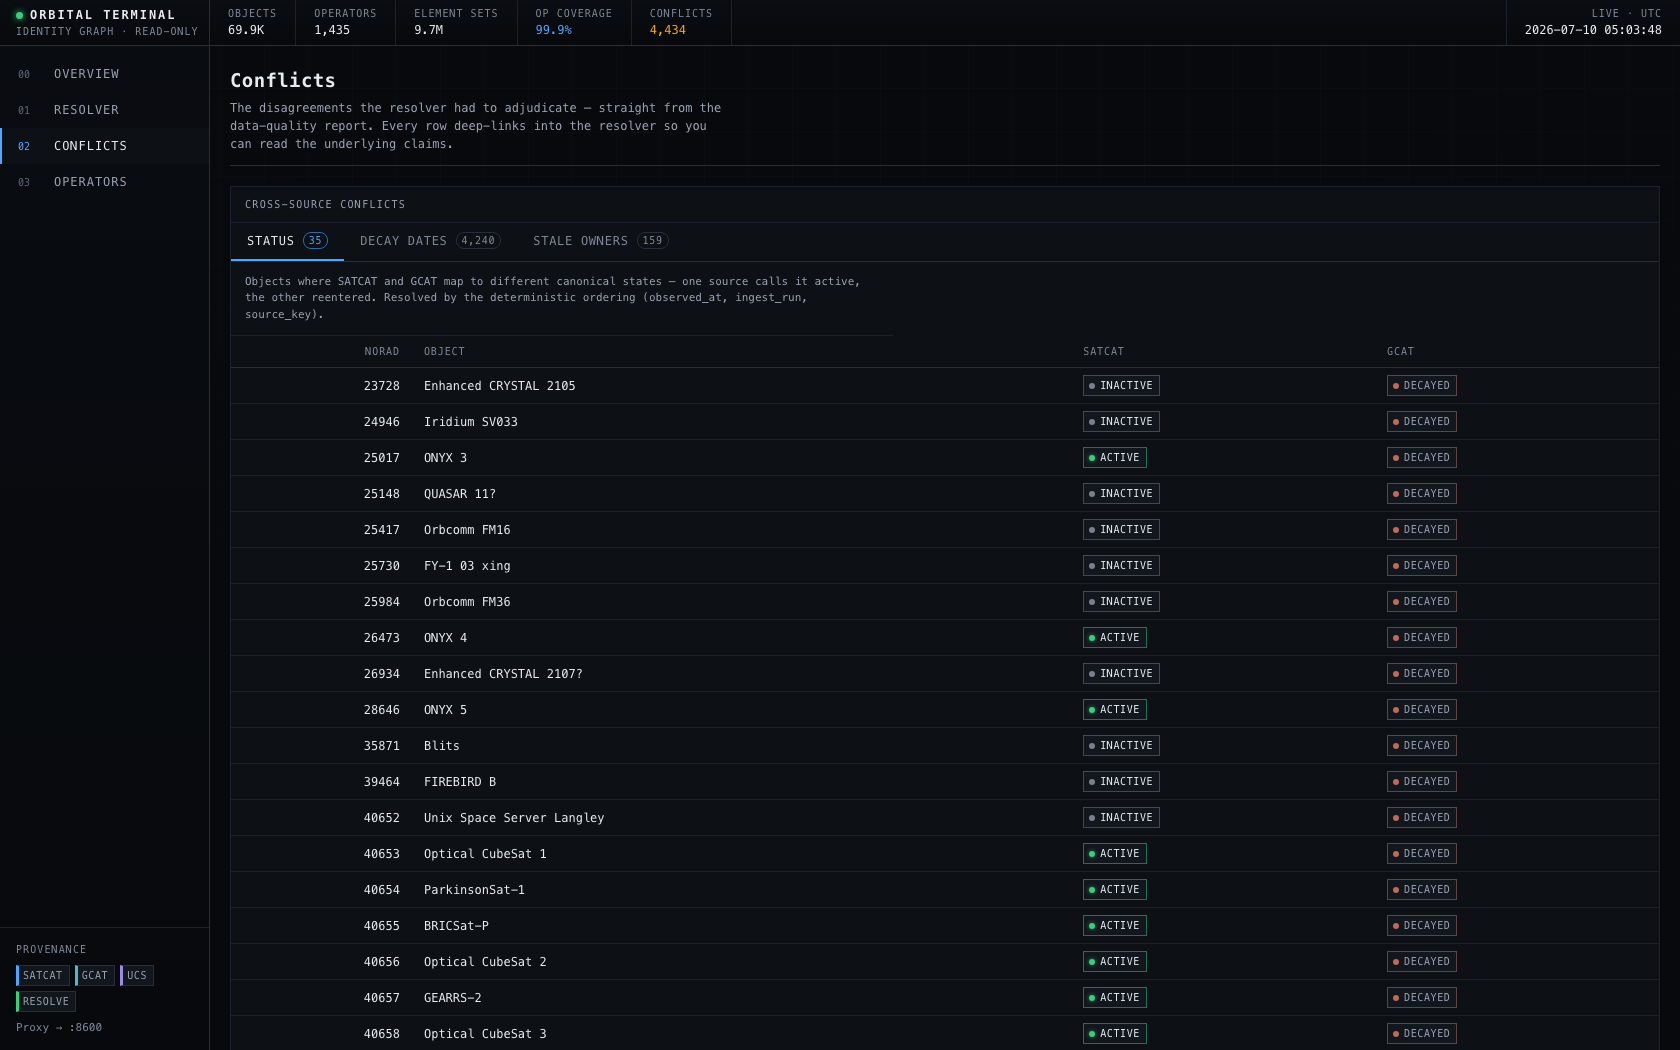
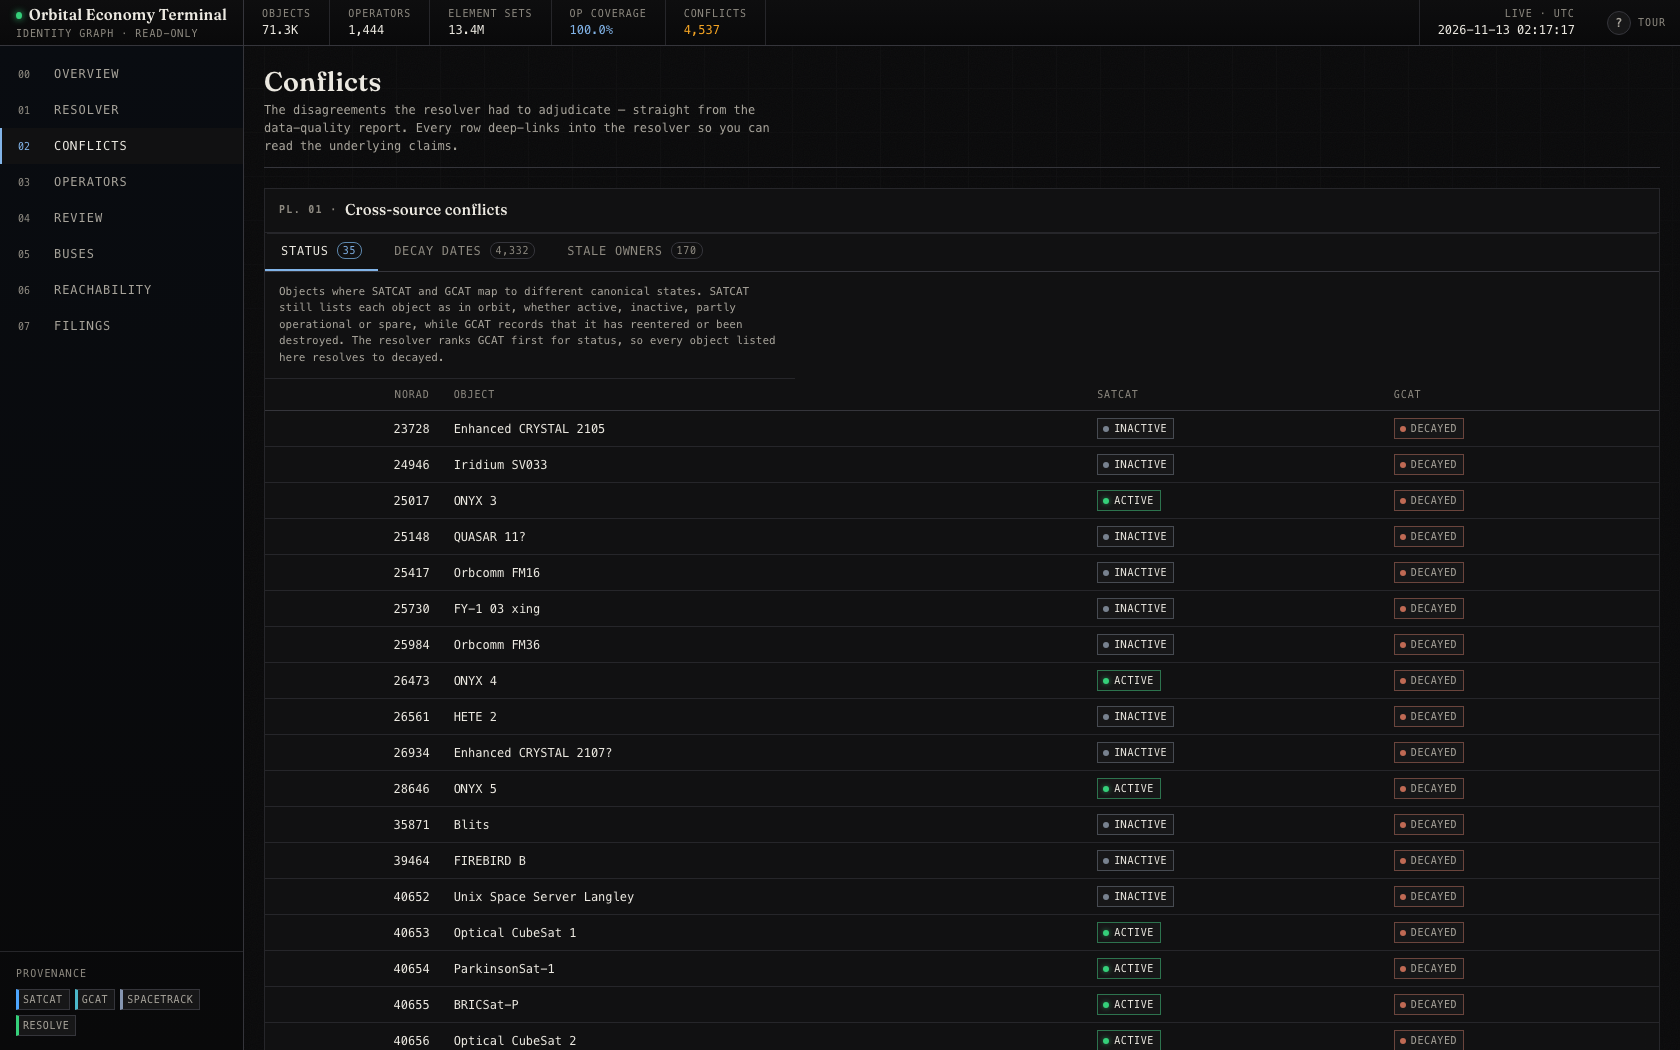
web: share card and README screenshots retaken from the live site (2026-11-13)
The old card and the four terminal screenshots still showed UCS in the provenance rail. The new
ones come from the live site after the audit fixes. The og:image URL carries a version query so
that link previews fetch the new card instead of a cached one.

Claude-Session: https://claude.ai/code/session_01Dae22HLxuLEvCsWSzKAChX

diff --git a/web/index.html b/web/index.html
@@ -26,7 +26,7 @@
       content="See what is happening in orbit: the launches and reentries of the last 30 days, a year of launch tempo, who owns the active fleet, the constellation race and the space weather, all read from one resolved record per satellite that is stitched from SATCAT, GCAT and Space-Track decay messages."
     />
     <meta property="og:url" content="https://orbital.vibcreates.com/" />
-    <meta property="og:image" content="https://orbital.vibcreates.com/og.png" />
+    <meta property="og:image" content="https://orbital.vibcreates.com/og.png?v=20261113" />
     <meta property="og:image:width" content="1200" />
     <meta property="og:image:height" content="630" />
     <meta property="og:image:alt" content="The Orbital Economy Terminal landing page" />
@@ -36,7 +36,7 @@
       name="twitter:description"
       content="See what is happening in orbit: the launches and reentries of the last 30 days, a year of launch tempo, who owns the active fleet, the constellation race and the space weather, all read from one resolved record per satellite that is stitched from SATCAT, GCAT and Space-Track decay messages."
     />
-    <meta name="twitter:image" content="https://orbital.vibcreates.com/og.png" />
+    <meta name="twitter:image" content="https://orbital.vibcreates.com/og.png?v=20261113" />
 
     <script type="application/ld+json">
     {
